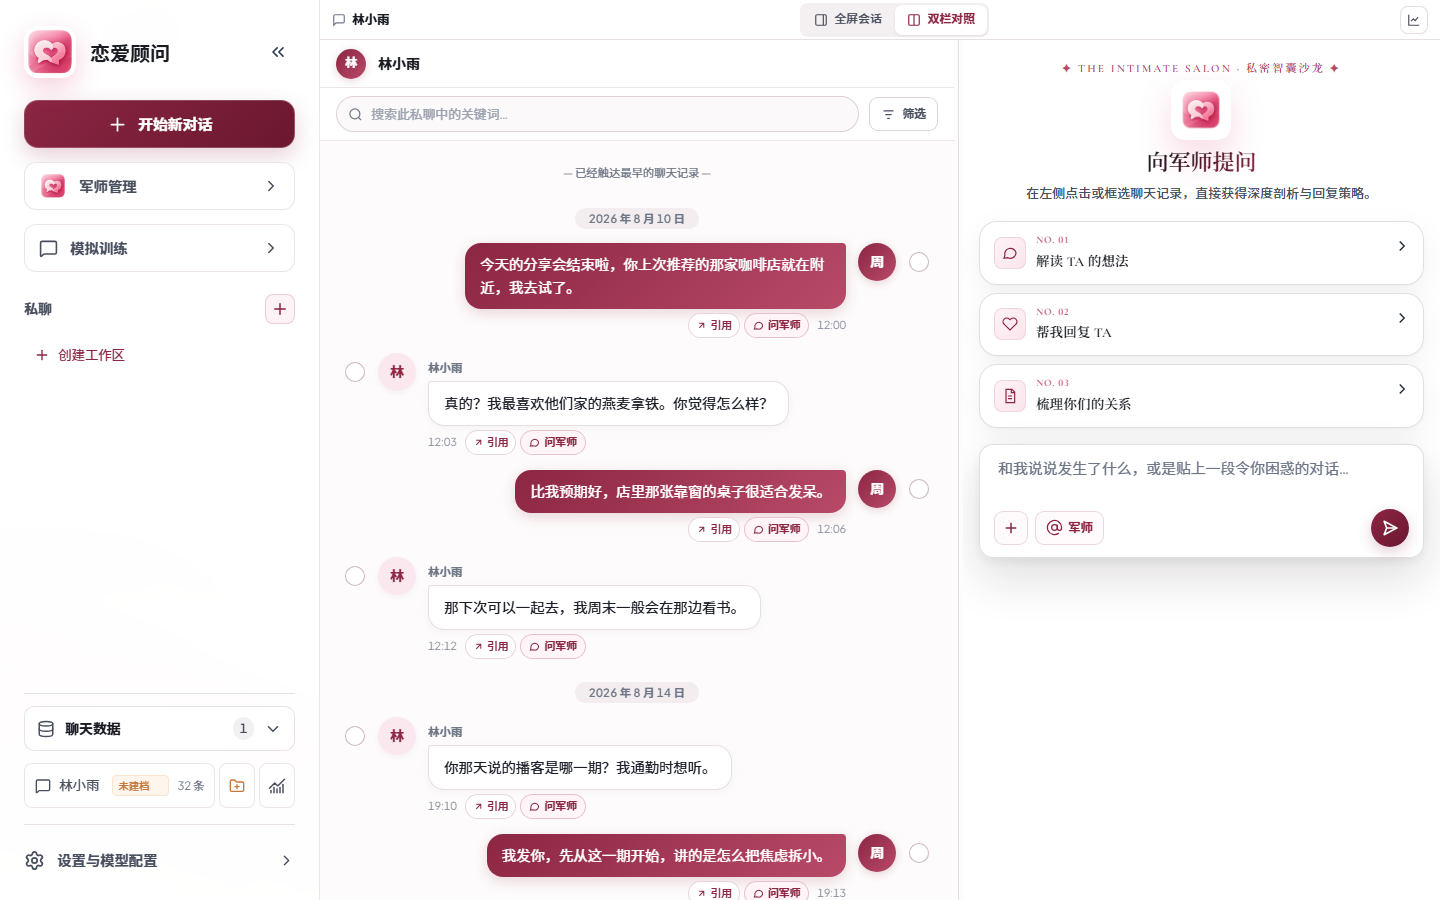
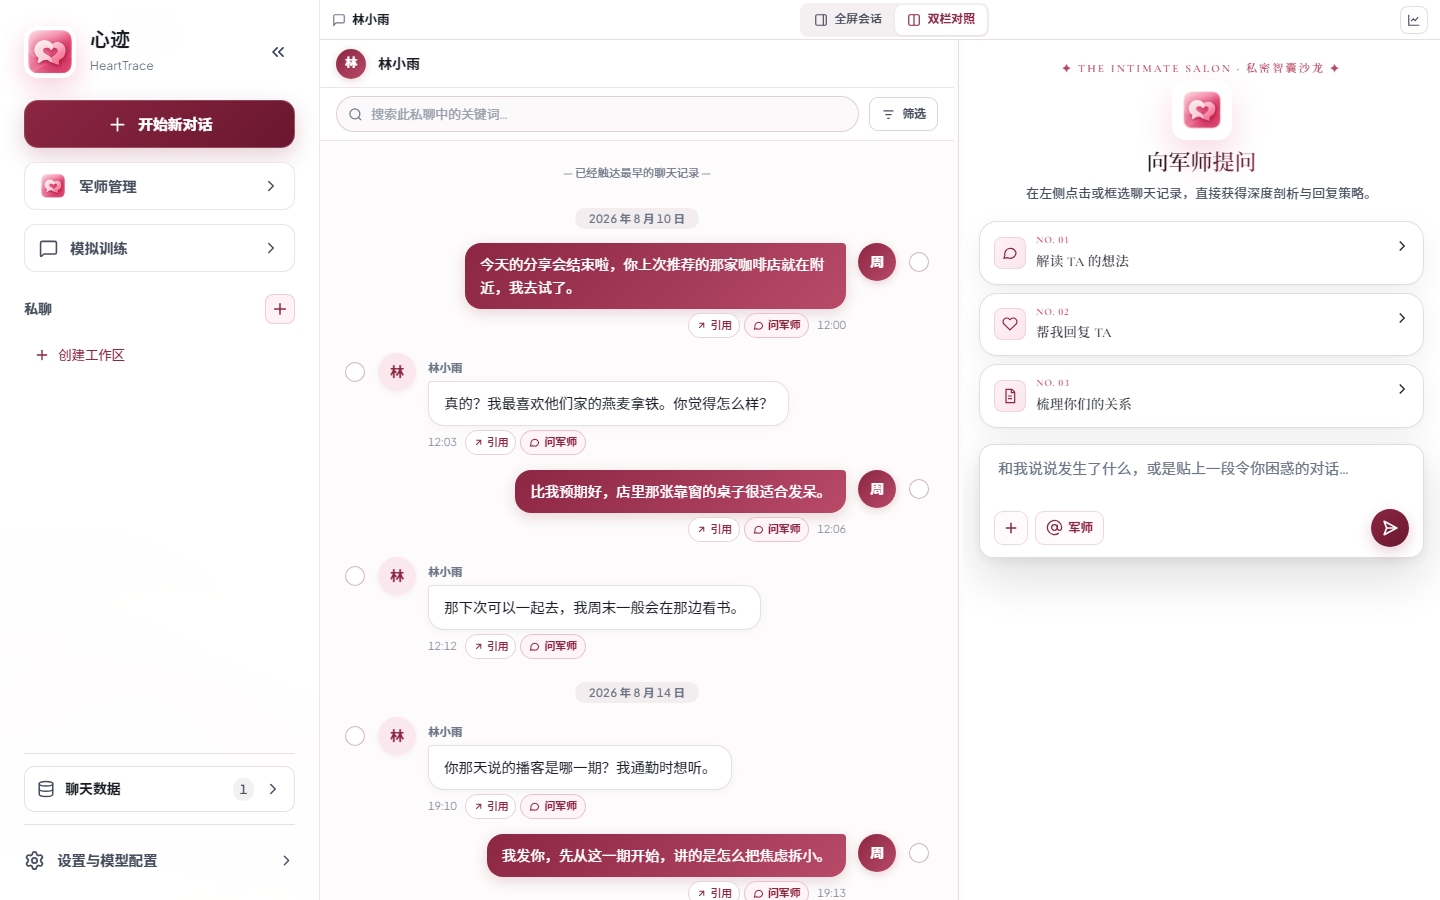
chore: rename product to HeartTrace

diff --git a/love-advisor/bin/cli.js b/love-advisor/bin/cli.js
@@ -1,5 +1,5 @@
 #!/usr/bin/env node
-// ── 恋爱军师 CLI 一键启动入口（支持 npx love-advisor）──────
+// ── 心迹 CLI 一键启动入口（兼容 love-advisor 命令）──────────
 import { startServer } from '../server/index.js'
 import { exec } from 'node:child_process'
 import fs from 'node:fs'
@@ -13,7 +13,8 @@ const args = process.argv.slice(2)
 
 if (args.includes('-h') || args.includes('--help')) {
   console.log(`
-  🌸 恋爱军师 Love Advisor v${pkg.version}
+  🌸 心迹 HeartTrace v${pkg.version}
+  关系理解与对话训练工作台
 
   用法:
     npx love-advisor [选项]
@@ -78,8 +79,8 @@ async function main() {
     console.log(`
   ┌────────────────────────────────────────────────────┐
   │                                                    │
-  │   🌸 恋爱军师 (Love Advisor) v${pkg.version.padEnd(6)}             │
-  │   本地私密 AI 军师已就绪                           │
+  │   🌸 心迹 (HeartTrace) v${pkg.version.padEnd(6)}                   │
+  │   关系理解与对话训练工作台已就绪                    │
   │                                                    │
   │   ➜ 本地访问:  \x1b[36m${url}\x1b[0m               │
   │   ➜ 按 Ctrl+C 即可停止服务                         │

diff --git a/love-advisor/src/components/MessageList.vue b/love-advisor/src/components/MessageList.vue
@@ -174,7 +174,7 @@ watch(
   <!-- 首页态：Hero + 卡片 -->
   <div v-if="!messages.length" class="home-block" :class="{ 'is-split': isSplit }">
     <div class="hero-tagline">✦ THE INTIMATE SALON · 私密智囊沙龙 ✦</div>
-    <div class="hero-logo"><img :src="logo" alt="恋爱顾问" /></div>
+    <div class="hero-logo"><img :src="logo" alt="心迹" /></div>
     <h1>{{ isSplit ? '向军师提问' : homeTitle }}</h1>
     <p class="subtitle">{{ isSplit ? '在左侧点击或框选聊天记录，直接获得深度剖析与回复策略。' : '把事情告诉我，为你拆解对话潜台词、情绪起伏与下一步对策。' }}</p>
 
@@ -207,7 +207,7 @@ watch(
         class="msg animate-bubble-in"
         :class="m.role === 'user' ? 'user' : 'assistant'"
       >
-        <img v-if="m.role !== 'user'" :src="logo" alt="恋爱顾问" class="msg-avatar" />
+        <img v-if="m.role !== 'user'" :src="logo" alt="心迹" class="msg-avatar" />
         <div v-else class="msg-avatar me">我</div>
         <div class="msg-body">
           <!-- 思考过程（可折叠胶囊容器） -->

diff --git a/love-advisor/src/components/Sidebar.vue b/love-advisor/src/components/Sidebar.vue
@@ -133,8 +133,8 @@ async function save() {
 <template>
   <aside class="sidebar tree-sidebar">
     <div class="brand-row">
-      <div class="brand-mark"><img :src="logo" alt="恋爱顾问" /></div>
-      <div class="brand-copy"><strong>恋爱顾问</strong></div>
+      <div class="brand-mark"><img :src="logo" alt="心迹" /></div>
+      <div class="brand-copy"><strong>心迹</strong><small>HeartTrace</small></div>
       <button class="collapse" aria-label="收起侧栏" title="收起侧栏" @click="emit('toggle-collapse')">
         <ChevronsLeft :size="20" />
       </button>
@@ -323,7 +323,7 @@ async function save() {
     <ConfirmDialog
       :open="!!deleteTarget"
       title="删除会话？"
-      :message="deleteTarget ? `会话「${deleteTarget.title}」及其中的顾问对话将被永久删除，此操作无法撤销。` : ''"
+      :message="deleteTarget ? `会话「${deleteTarget.title}」及其中的 AI 对话将被永久删除，此操作无法撤销。` : ''"
       confirm-text="删除会话"
       @cancel="deleteTarget = null"
       @confirm="confirmDelete"

diff --git a/love-advisor/index.html b/love-advisor/index.html
@@ -6,7 +6,7 @@
     <link rel="preconnect" href="https://fonts.googleapis.com">
     <link rel="preconnect" href="https://fonts.gstatic.com" crossorigin>
     <link href="https://fonts.googleapis.com/css2?family=Cormorant+Garamond:ital,wght@0,500;0,600;0,700;1,400;1,600&family=Noto+Serif+SC:wght@400;500;600;700&family=Plus+Jakarta+Sans:wght@400;500;600;700&display=swap" rel="stylesheet">
-    <title>恋爱顾问 · Relationship Advisor</title>
+    <title>心迹 · HeartTrace</title>
   </head>
   <body>
     <div id="app"></div>

diff --git a/love-advisor/src/components/ImportDialog.vue b/love-advisor/src/components/ImportDialog.vue
@@ -234,7 +234,7 @@ async function dryRun() {
     const j = await res.json()
     if (!j.ok) throw new Error(j.error || '预览失败')
     if (j.data.type && j.data.type !== 'private') {
-      throw new Error(`「${j.data.name || file.value.name}」是群聊。恋爱军师只分析一对一私聊。`)
+      throw new Error(`「${j.data.name || file.value.name}」是群聊。心迹只分析一对一私聊。`)
     }
     preview.value = j.data
   } catch (e) {

diff --git a/love-advisor/README.md b/love-advisor/README.md
@@ -1,6 +1,6 @@
-# 🌸 恋爱军师 (Love Advisor)
+# 🌸 心迹 (HeartTrace)
 
-> 基于真实私密聊天记录客观取证、方法论沉淀与长程记忆的本地 AI 恋爱决策军师。
+> 本地优先的关系理解与对话训练工作台。
 
 ---
 
@@ -37,7 +37,7 @@ love-advisor
 npx --no-install clb import examples/恋爱军师-演示聊天记录.json --format chatlab --session-id love-advisor-demo-lin
 ```
 
-启动恋爱军师并刷新页面后，私聊列表会出现「林小雨」。选择该私聊创建工作区，即可体验导入分析、记忆建议、军师咨询和训练场；演示数据不会覆盖真实聊天记录。
+启动心迹并刷新页面后，私聊列表会出现「林小雨」。选择该私聊创建工作区，即可体验导入分析、记忆建议、军师咨询和训练场；演示数据不会覆盖真实聊天记录。
 
 ### 命令行常用选项
 

diff --git a/love-advisor/examples/README.md b/love-advisor/examples/README.md
@@ -1,6 +1,6 @@
 # 产品演示数据
 
-`恋爱军师-演示聊天记录.json` 是一份完全虚构的标准 ChatLab 私聊记录，用来演示：
+`恋爱军师-演示聊天记录.json` 是一份完全虚构的标准 ChatLab 私聊记录，用来演示心迹的核心流程：
 
 - 双方主动发起与回复节奏；
 - 工作压力导致的短暂低频；
@@ -15,4 +15,4 @@
 npx clb import examples/恋爱军师-演示聊天记录.json --format chatlab --session-id love-advisor-demo-lin
 ```
 
-然后刷新恋爱军师，左侧私聊列表会出现「林小雨」。选择它并创建工作区，即可用自己的模型配置进行分析。重复导入会更新同一个演示会话。
+然后刷新心迹，左侧私聊列表会出现「林小雨」。选择它并创建工作区，即可用自己的模型配置进行分析。重复导入会更新同一个演示会话。
